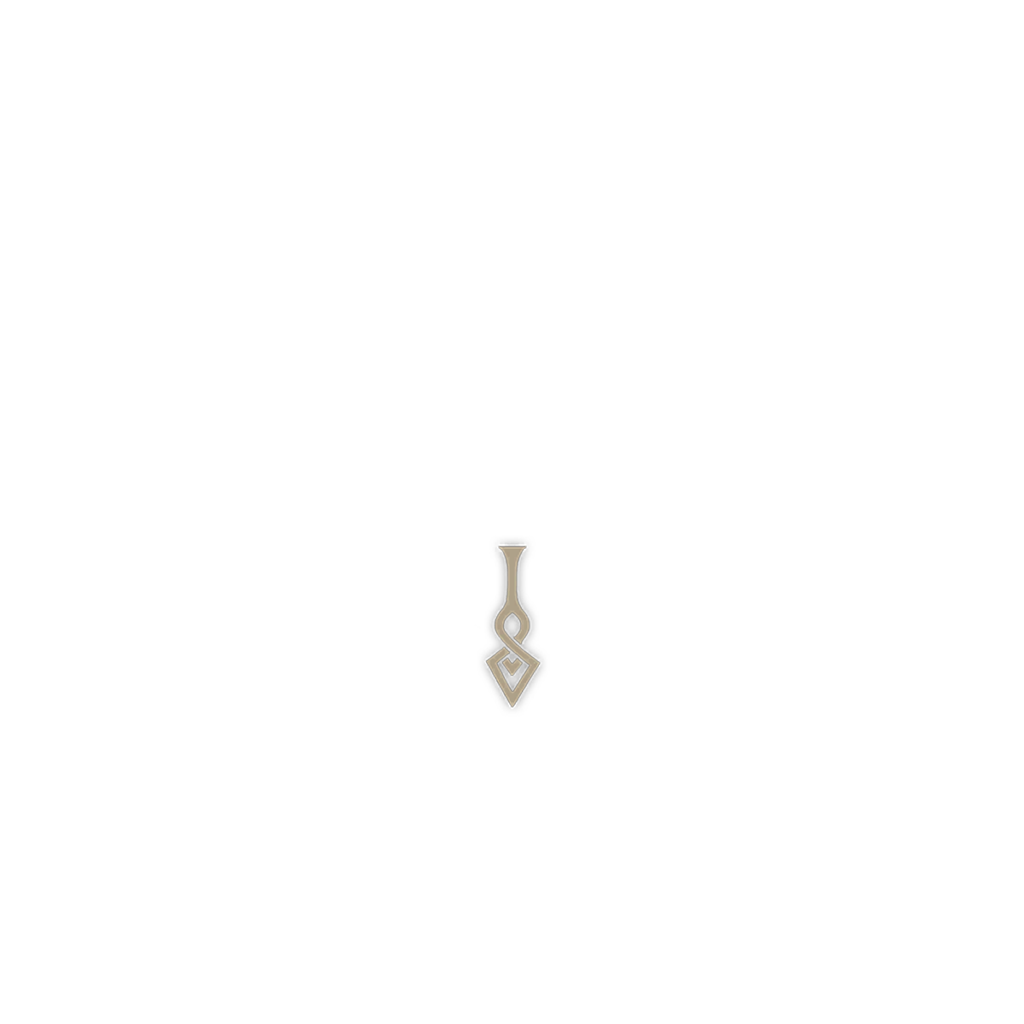
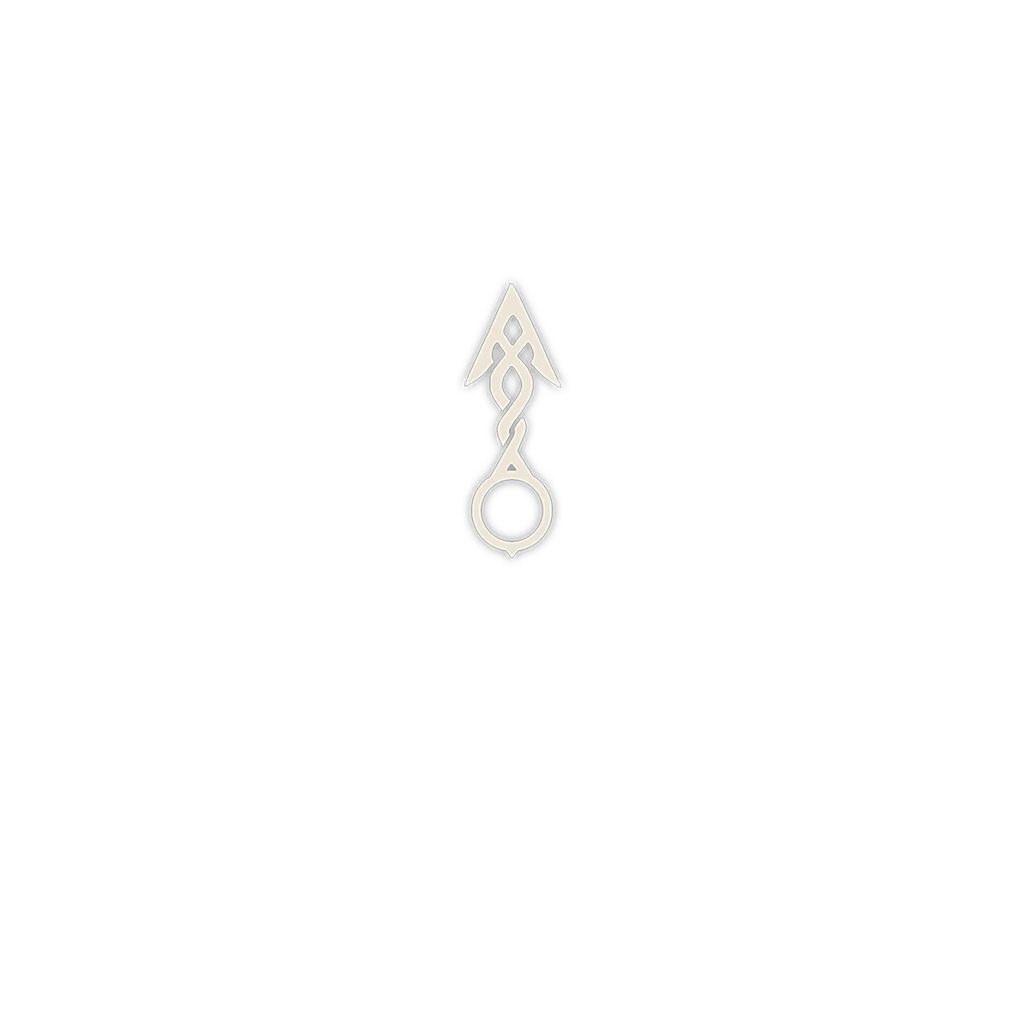
优化位置

Changed region(s): [[0.4375, 0.2812, 0.5625, 0.6875]]

diff --git a/html/index.css b/html/index.css
@@ -17,7 +17,7 @@
       aspect-ratio: 1 / 1; 
       position: relative;
       overflow: hidden;
-      border: #fff 1px solid;
+      /* border: #fff 1px solid; */
     }
 
     .clock-wrap img {
@@ -59,12 +59,12 @@
       left: 50%;
       top: 50%;
       transform: translate(-50%, -50%);
-      width: 50%;
-      height: 50%;
+      width: 46%;
+      aspect-ratio: 1 / 1;
       border-radius: 50%;
       overflow: hidden;
       z-index: -1;
-      border: #fff 1px solid;
+      /* border: #fff 1px solid; */
     }
 
     .star, .star_particles {
@@ -81,9 +81,9 @@
 
     .gear3 {
         position: absolute;
-        left: 19%;
-        top: 3%;
-        width: 82%;
+        left: 18%;
+        top: -2%;
+        width: 88%;
         aspect-ratio: 1 / 1;
         animation: rotateGear3 60s linear infinite reverse;
         rotate: 0deg;
@@ -100,9 +100,9 @@
 
     .gear4 {
         position: absolute;
-        left: 0%;
-        top: 21%;
-        width: 73.5%;
+        left: -6%;
+        top: 16%;
+        width: 80%;
         aspect-ratio: 1 / 1;
         /* 48齿 */
         animation: rotateGear4 60s linear infinite reverse;
@@ -125,7 +125,7 @@
         width: 46.5%;
         aspect-ratio: 1 / 1;
         /* 32齿 */
-        animation: rotateGear5 40s linear infinite;
+        animation: rotateGear5 40s linear infinite ;
         rotate: 3deg;
     } 
 
@@ -140,43 +140,43 @@
 
     .gear6 {
         position: absolute;
-        left: 57%;
-        top: -5%;
+        left: 58%;
+        top: -8%;
         width: 24%;
         aspect-ratio: 1 / 1;
         /* 32齿 */
-        animation: rotateGear6 40s linear infinite;
+        animation: rotateGear6 40s linear infinite reverse;
         rotate: 0deg;
     } 
 
-    /* @keyframes rotateGear6 {
+    @keyframes rotateGear6 {
       from {
         transform:  rotate(0deg);
       }
       to {
         transform:  rotate(360deg);
       }
-    } */
+    }
 
     .gear7 {
         position: absolute;
-        left: 80%;
-        top: 63%;
+        left: 81%;
+        top: 62.5%;
         width: 24%;
         aspect-ratio: 1 / 1;
         /* 32齿 */
-        animation: rotateGear7 40s linear infinite;
+        animation: rotateGear7 120s linear infinite reverse;
         rotate: 0deg;
     } 
 
-    /* @keyframes rotateGear7 {
+    @keyframes rotateGear7 {
       from {
         transform:  rotate(0deg);
       }
       to {
         transform:  rotate(360deg);
       }
-    } */
+    }
 
 
     .gear0 {
@@ -186,40 +186,57 @@
         transform: translate(-50%, -50%);
         width: 25%;
         aspect-ratio: 1 / 1;
-        animation: rotateGear0 60s linear infinite reverse;
+        /* 32齿 */
+        animation: rotateGear0 40s linear infinite reverse;
     }
 
     @keyframes rotateGear0 {
       from {
         transform: translate(-50%, -50%) rotate(0deg);
       }
-
       to {
         transform: translate(-50%, -50%) rotate(360deg);
       }
     } 
 
-
-
     /* 指针核心：旋转原点在底部中心 */
     .pointer {
-      display: none;
       position: absolute;
-      left: 50%;
-      top: 50%;
-      width: 100%;
-      height: 100%;
-      transform-origin: center bottom;
-      /* pointer-events: auto; */
+        left: 50%;
+        top: 50%;
+        transform: translate(-50%, -50%);
+        width: 82%;
+        aspect-ratio: 1 / 1;
     }
 
     #pointerMin {
       z-index: 10;
+      animation: rotatepointerMin 60s linear infinite;
     }
+
+    @keyframes rotatepointerMin {
+      from {
+        transform: translate(-50%, -50%) rotate(0deg);
+      }
+      to {
+        transform: translate(-50%, -50%) rotate(360deg);
+      }
+    } 
 
     #pointerHour {
       z-index: 9;
+      animation: rotatepointerHour 3600s linear infinite;
     }
+
+    @keyframes rotatepointerHour {
+      from {
+        transform: translate(-50%, -50%) rotate(0deg);
+      }
+      to {
+        transform: translate(-50%, -50%) rotate(360deg);
+      }
+    } 
+
 
     /* 昼夜遮罩 */
     /*

diff --git a/html/GenshinClock.html b/html/GenshinClock.html
@@ -12,7 +12,7 @@
     <!-- 昼夜遮罩 -->
     <!-- <div class="mask-layer" id="mask" style="--maskDeg: 180deg;"></div> -->
 
-    <img class="ref_clock" src="./assets/MainClock.png" alt="clock-bg">
+    <!-- <img class="ref_clock" src="./assets/MainClock.png" alt="clock-bg"> -->
 
     <!-- 表盘 -->
     <img class="clock-bg" src="./assets/Clock_BG.png" alt="clock-bg">
@@ -21,23 +21,23 @@
     <!-- 表机芯-->
     <div class="clock-movement">
       <!-- 星空-->
-      <!-- <img class="star" src="./assets/UI_Img_HoroscopeBg.png" alt="star"> -->
-      <!-- <img class="star_particles" src="./assets/star_particles.gif" alt="star_particles"> -->
+      <img class="star" src="./assets/UI_Img_HoroscopeBg.png" alt="star">
+      <img class="star_particles" src="./assets/star_particles.gif" alt="star_particles">
     
       <!-- 齿轮 -->
-      <!-- <img class="gear3" src="./assets/UI_Img_Horoscope03.png" alt="gear3"> -->
-      <!-- <img class="gear4" src="./assets/UI_Img_Horoscope04.png" alt="gear4"> -->
+      <img class="gear3" src="./assets/UI_Img_Horoscope03.png" alt="gear3">
+      <img class="gear4" src="./assets/UI_Img_Horoscope04.png" alt="gear4">
       <img class="gear5" src="./assets/UI_Img_Horoscope05.png" alt="gear5">
       <img class="gear6" src="./assets/UI_Img_Horoscope06.png" alt="gear6">
       <img class="gear7" src="./assets/UI_Img_Horoscope06.png" alt="gear7">
-      <!-- <img class="gear0" src="./assets/UI_Img_Horoscope06.png" alt="gear0"> -->
+      <img class="gear0" src="./assets/UI_Img_Horoscope06.png" alt="gear0">
 
     </div>
 
-
     <!-- 指针 -->
-    <!-- <img id="pointerHour" class="pointer" src="./assets/UI_Clock_HourHand.png" alt="hour"> -->
-    <!-- <img id="pointerMin" class="pointer" src="./assets/UI_Clock_MinuteHand.png" alt="minute"> -->
+    <img id="pointerHour" class="pointer" src="./assets/UI_Clock_HourHand.png" alt="hour">
+    <img id="pointerMin" class="pointer" src="./assets/UI_Clock_MinuteHand.png" alt="minute">
+  
   </div>
 
   <!--
